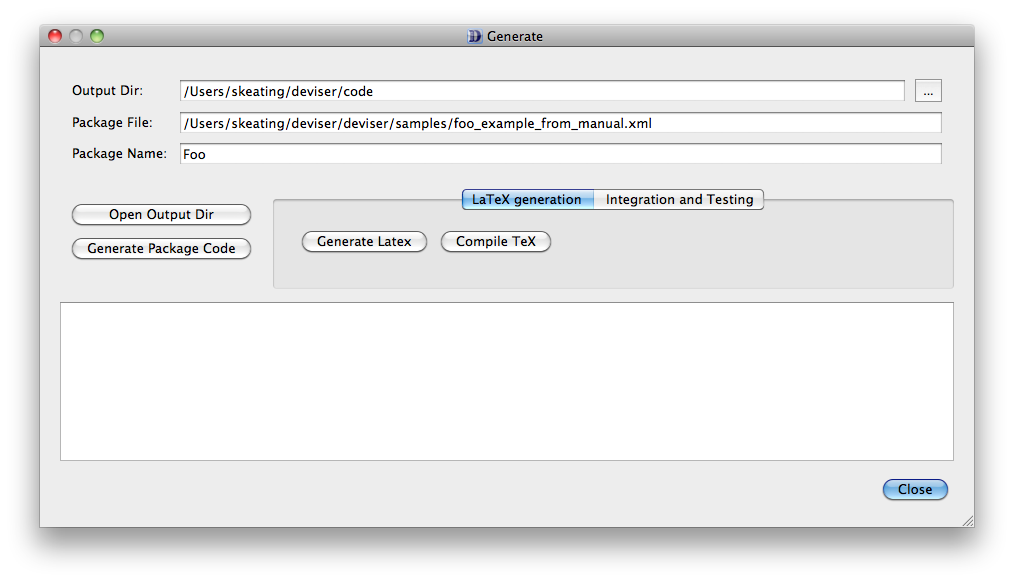
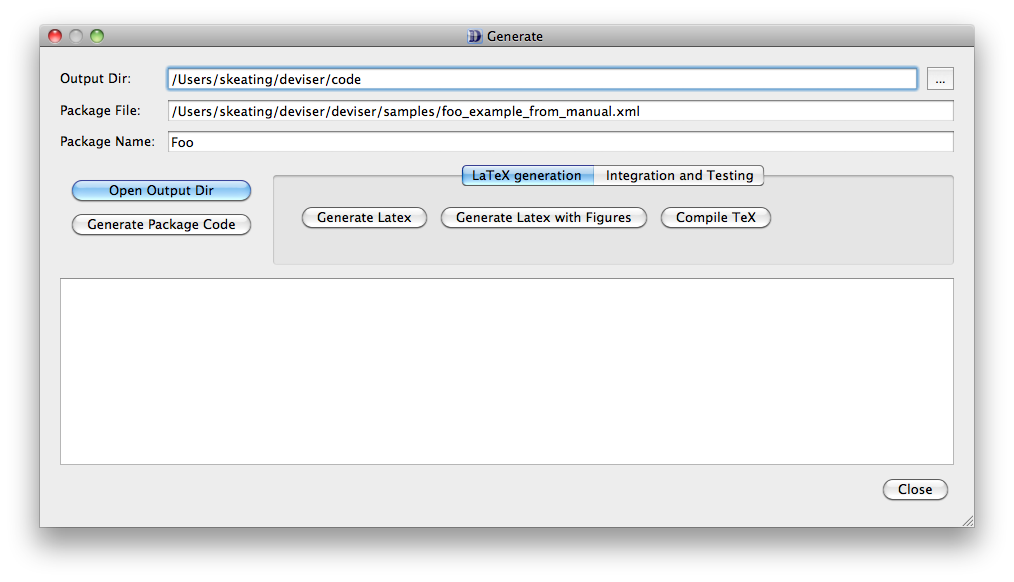
more documentation - I think it is pretty much all there now apart from license stuff

diff --git a/docs/src/source/using_deviser.rst b/docs/src/source/using_deviser.rst
@@ -6,7 +6,7 @@ The Deviser Edit tool allows you to specify the details of an SBML L3
 Package. In addition it can be used to perform a number of tasks
 directly. Some of these require additional software on your system and
 Deviser Edit needs to be given the information about where to find
-these. This is described in Section 1.3.
+these. This is described in Section :ref:`setup`.
 
 View UML diagrams.
 ------------------
@@ -50,29 +50,46 @@ There is a selection box and two check boxes that allow the user to
 change the format of the diagram. These are left for the user to
 experiment with.
 
-Generate libSBML package code.
-------------------------------
+Generate package code/documentation
+-------------------------------------
 
-Click on the ‘Generate’ button on the toolbar and the Generate window
-(Figure :num:`fig-generate`) will appear.
+Click on the **Generate** button on the toolbar and the Generate window
+(Figure :num:`fig-generate`) will appear. Prior to displaying the window 
+the validation checks (see :ref:`validate`) are run and any problems reported 
+to the user.
 
-The **Generate Package Code** button will then create the package code
-and put it in a directory name ‘foo’ (i.e. the name of the package) in
-the specified output directory. This code can then be archived and
-expanded over the libSBML source tree.
 
 .. _fig-generate:
 .. figure:: ../screenshots/deviser-generate.png
 
      The Generate window
 
+The **Output Dir**, **Package File** and **Package Name** fields are all 
+automatically populated using the information provided. It is recommended 
+that you have saved to a file before attempting generation.
+
+The **Generate Package Code** button will then create the package code
+and put it in a directory named ‘foo’ (i.e. the name of the package) in
+the specified output directory. This code can then be archived and
+expanded over the libSBML source tree.
+
+The **Open Output Dir** button provides a shortcut to the output directory 
+specified.
+
+Further options are available via the **LaTeX Generation** and 
+**Integration and Testing** tabs. Functionality provided here will require
+access to further software as detailed in the :ref:`prereq` section.
+
 Generate basic specification documentation.
--------------------------------------------
+~~~~~~~~~~~~~~~~~~~~~~~~~~~~~~~~~~~~~~~~~~~
 
-In the Generate window there is a **LaTeX Generation** tab with two
-further buttons.
+In the Generate window there is a **LaTeX Generation** tab with three
+further buttons (Figure :num:`fig-generate`).
 
-The **Generate Latex** button will generate three TeX files.
+The **Generate LaTeX** button
+******************************
+
+The **Generate LaTeX** button will generate three TeX files.
 
 -  body.tex describing each class and its attributes with their types
    and cardinalities.
@@ -82,12 +99,40 @@ The **Generate Latex** button will generate three TeX files.
 -  macros.tex listing the classes and creating commands for
    cross-referencing
 
+These will be located in a directory named 'foo-spec' within the specified
+output directory.
+
+The **Generate LaTeX with Figures** button
+********************************************
+
+The **Generate LaTeX with Figures** button will call the yUML services to 
+generate figures for each of the classes and plugins specified within the
+package description. It also creates an overall diagram of the whole package. 
+These are placed in a subdirectory figures within the 'foo-spec' directory.
+
+The three TeX files are then generated
+
+-  body.tex describing each class and its attributes with their types
+   and cardinalities and including the UML diagrams for each object.
+
+-  apdx-validation.tex listing the validation rules.
+
+-  macros.tex listing the classes and creating commands for
+   cross-referencing
+
+These will be located in a directory named 'foo-spec' within the specified
+output directory.
+
+The **Compile TeX** button
+***************************
+
 The **Compile TeX** button takes the generated TeX files, creates
 another main.tex based on the sbmlpkgspec requirements and generates a
-basic specification document as a pdf.
+basic specification document as a pdf. This will be located within the 
+'foo-spec' directory.
 
 Integrate and test the package with libSBML.
---------------------------------------------
+~~~~~~~~~~~~~~~~~~~~~~~~~~~~~~~~~~~~~~~~~~~~
 
 Click the **Integration and Testing** tab in the Generate window and a
 further set of buttons are revealed (Figure :num:`fig-integrate`).
@@ -95,23 +140,125 @@ further set of buttons are revealed (Figure :num:`fig-integrate`).
 .. _fig-integrate:
 .. figure:: ../screenshots/deviser-integrate.png
 
-Figure Integration and Testing tab selected on the Generate window.
+   Integration and Testing tab selected on the Generate window.
 
+The **Compile Dependencies** button
+************************************
 **Compile Dependencies** compiles the dependencies with the specified
 C++ compiler to ensure that these are compatible with the libSBML build.
+Note that particularly on Windows OS it is necessary for the
+libSBML dependencies to be built with the same compiler as that to be
+used to build libSBML. If the user has specified the location of the source 
+code for the dependencies and the C++ compiler (see :ref:`settings`) then 
+this button will invoke a build of the dependencies.
 
+The **Add Code to Source Dir** button
+**************************************
 **Add Code to Source Dir** places the code generated for package foo
-within the libSBML source tree.
+within the libSBML source tree. Note that this merely takes the output 
+from the code generation step and places a copy of it within the source tree. 
+Thus two copies of the code now exist. One in the Deviser **Output Dir** and one 
+embedded within the specified libSBML source tree.  If the 
+code is changed, either in the tree or by regenerating using Deviser, then
+the other 'copy' is NOT affected. 
 
+This does mean that using this button more than once will overwrite files.
+Care need to be taken if code needs to be manually adjusted.
+
+The **Remove Code to Source Dir** button
+*****************************************
 **Remove Code from Source Dir** removes the code generated for package
-foo from the libSBML source tree.
+foo from the libSBML source tree. The removed code is merely deleted and not
+saved elsewhere. Thus any changes made to the code within the tree will be lost.
 
+The **Compile libSBML with package** button
+********************************************
 **Compile libSBML with package** enables package foo within the libSBML
 build and runs the build.
 
-**Run libSBML** **Python** **session** (Windows only) starts an
-interactive python session with the package loaded to facilitate to
-manual testing of the code.
+.. todo::
+    List the configuration options used by this build
+
+Utility functions in Deviser Edit
+----------------------------------
+
+There are a number of functions to facilitate use of Deviser Edit and reporting
+of issues. Using the tree view on the left right clicking on an object reveals 
+a menu as shown in Figure :num:`deviser-util`.
+
+.. _deviser-util:
+.. figure:: ../screenshots/deviser-util.png
+
+   Utility menu.
+
+The **Add XYZ** items
+~~~~~~~~~~~~~~~~~~~~~~~
+The various **Add** items will add the appropriate object to the Version selected.
+This will work from any object within the tree. So in Figure :num:`deviser-util` 
+highlighting *FooRate* and selecting *Add Enum* would add a new Enum to the list for
+Version 3,1,1.
+
+The **Duplicate** item
+~~~~~~~~~~~~~~~~~~~~~~~
+
+The **Duplicate** item creates a copy of the selected item (where this makes sense).
+So it is possible to duplicate individual classes, plugins or enums but the headers
+*Mappings*, *Classes*, *Plugins* and *Enums* cannot be duplicated.
+It is also possible to duplicate the entire version, which creates a new version
+with identical elements as the one being copied. Section :ref:`mult-vers` gives more details.
+
+In Figure :num:`deviser-util` 
+highlighting *FooRate* and selecting *Duplicate* would add a new class to the list for
+Version 3,1,1. This class would be identical to *FooRate* except it would have the name 
+*FooRate_copy*. 
+
+The **Copy XML** item
+~~~~~~~~~~~~~~~~~~~~~
+
+The **Copy XML** item copies the Deviser XML description of the selected object 
+to the clipboard; thus making it available for pasting elsewhere.
+Similarly to **Duplicate** this works for individual classes, plugins, enums 
+and versions but not for the other headers.
+
+.. _xml-model:
+
+   Example of text copied when highlighting *Model* from the *Plugins* and selecting *Copy XML*
+
+.. code-block:: XML
+
+      <?xml version="1.0" encoding="UTF-8"?>
+      <plugin extensionPoint="Model">
+        <attributes>
+          <attribute name="useFoo" required="true" type="boolean" abstract="false"/>
+        </attributes>
+      </plugin>
+
+
+The **Copy yUML** item
+~~~~~~~~~~~~~~~~~~~~~~~
+
+The **Copy yUML** item copies the yUML text description of the selected object 
+to the clipboard; thus making it available for pasting elsewhere.
+Similarly to **Duplicate** this works for individual classes, plugins, enums 
+and versions but not for the other headers.
+
+.. _yuml-sign:
+
+   Example of text copied when highlighting *Sign* from the *Enums* and selecting *Copy yUML*
+
+.. code-block:: XML
+
+      [«Enumeration»;Sign|SIGN_FOO_POSITIVE = positive;SIGN_FOO_NEGATIVE = negative;SIGN_FOO_NEUTRAL = neutral{bg:gold}]
+
+
+
+The **Delete Selected** item
+~~~~~~~~~~~~~~~~~~~~~~~~~~~~~
+
+The **Delete Selected** item removes the item from the description.
+Similarly to **Duplicate** this works for individual classes, plugins, enums 
+and versions but not for the other headers.
+
 
 Command line
 ------------

diff --git a/docs/src/source/defining_package.rst b/docs/src/source/defining_package.rst
@@ -140,7 +140,7 @@ Fill in the core level and version and the package version numbers. These
 default to **Core level** '3' and **Core version** '1' as SBML L3V1 is the only official 
 SBML Level 3 version at the time of writing. The package version (**Pkg Version**)
 defaults to '1'. Using Deviser to specify more than one version of a package
-is discussed in :ref:`multiple-versions`.
+is discussed in :ref:`mult-vers`.
 
 
 .. _fig-version:
@@ -1443,6 +1443,8 @@ Validating the description
 There are two further options on the Edit menu that have not yet been
 discussed.
 
+.. _validate:
+
 The **Validate Description** option
 ************************************
  
@@ -1472,4 +1474,38 @@ any inconsistencies. Deviser Edit will run the validation checks and then
 automatically correct any issues, where this is possible. 
 It is advisable to use **Validate Description**
 following **Fix Errors** as some errors cannot be automatically fixed.
+
+.. _mult-vers:
+
+Defining multiple versions of a package
+---------------------------------------
+
+Deviser code generation neatly handles multiple versions of a package.
+
+.. todo::
+    Note on latex
+
+Each version must be specified completely. Using the **Add Version** button
+from the menu or toolbar will create a second version that can be populated
+in the same way as described in this manual.
+
+Since new versions of a package are likely to resemble existing versions the
+entire version can be duplicated by right-clicking on the Version header in the
+tree view on the left panel and selecting **Duplicate** (see Figure :num:`deviser-util1`).  
+
+.. _deviser-util1:
+.. figure:: ../screenshots/deviser-util1.png
+
+   Duplicating a version of a package.
+ 
+This creates a complete copy of the previous package version and gives it the
+next package version number (see Figure :num:`fig-foo-v2`). The individual 
+objects can then be edited or removed as necessary and any additional objects
+added.
+
+.. _fig-foo-v2:
+.. figure:: ../screenshots/deviser-foo-v2.png
+
+   A second version of the 'foo' package duplicated from Version 1. Note how 
+   the classes listed reflect Version 1.
 

diff --git a/docs/src/source/getting_started.rst b/docs/src/source/getting_started.rst
@@ -74,6 +74,8 @@ available:
 
 5. Create and view a UML diagram.
 
+.. _prereq:
+
 Prerequisites
 -------------
 
@@ -171,6 +173,8 @@ Useful links
 7. MiKTEX:
    http://miktex.org/
 
+.. _setup:
+
 Setting up the Deviser Edit tool
 --------------------------------
 
@@ -185,6 +189,8 @@ Edit->Edit Preferences (Preferences on Mac OSX)
 
 and choosing either the **Deviser Settings** or **User Defined Types** tab. 
 Settings used here will be saved and persist between sessions.
+
+.. _settings:
 
 Deviser Settings
 ~~~~~~~~~~~~~~~~~

diff --git a/docs/src/source/index.rst b/docs/src/source/index.rst
@@ -14,7 +14,6 @@ Contents:
    getting_started
    defining_package
    using_deviser
-   defining_multiple_versions
    appendix_xml_example
    appendix_types
    appendix_validation

diff --git a/docs/src/source/appendix_licensing.rst b/docs/src/source/appendix_licensing.rst
@@ -1,5 +1,6 @@
 
-Appendix C
-==========
+Appendix D: Licensing the code produced
+=======================================
 
-Licensing
+.. todo:: 
+   paraphrase fom emails
